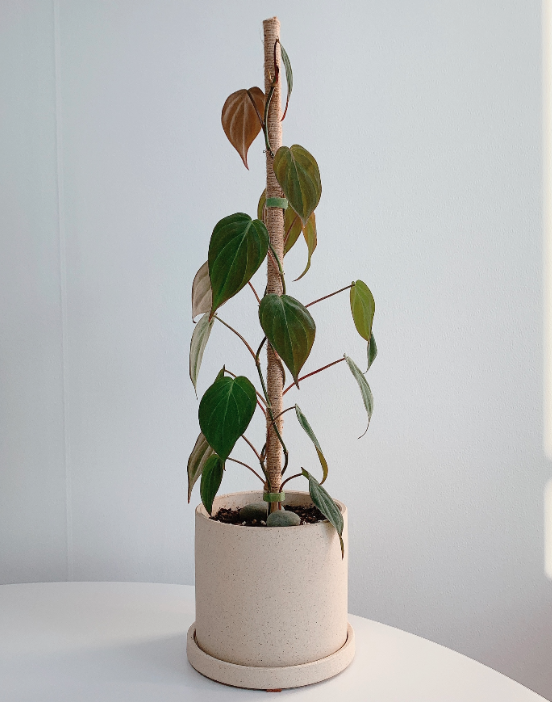
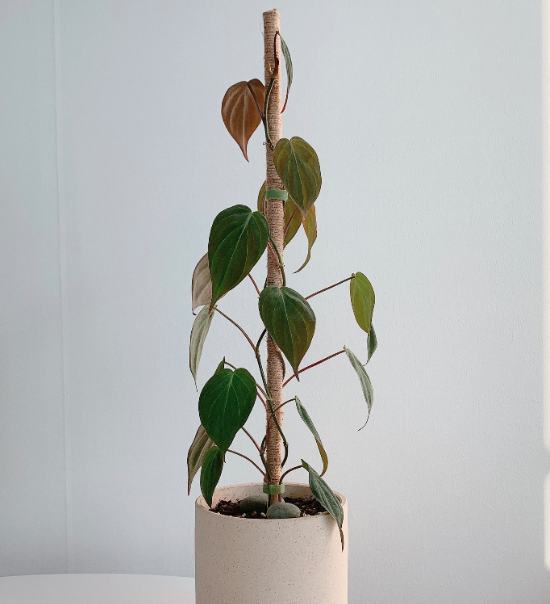
fix: 상세 페이지 스타일 수정
- 이미지 교체
- 데이터 수정
- 상세 페이지 이미지 크기 수정 및 라벨 스타일 수정

diff --git a/src/styles/DetailPageStyle.ts b/src/styles/DetailPageStyle.ts
@@ -6,7 +6,7 @@ export const DetailContainer = styled.main`
   width: 100vw;
   height: 82vh;
   margin: 0 auto;
-  padding: 20px;
+  padding: 10px 20px 20px 20px;
   display: flex;
   flex-direction: row;
   font-family: "Pretendard";
@@ -23,11 +23,11 @@ export const DetailMainDiv = styled.div`
     display: flex;
     flex-direction: column;
     gap: 5px;
-    margin-bottom: 20px;
+    margin-bottom: 13px;
 
     #plantNumber {
       font-family: "Pretendard";
-      font-size: ${({ theme }) => theme.font.lg};
+      font-size: ${({ theme }) => theme.font.md};
     }
 
     h1,
@@ -46,16 +46,18 @@ export const DetailMainDiv = styled.div`
 `;
 
 export const InfoSection = styled.div`
+  box-sizing: border-box;
   width: 100%;
   height: 100%;
-  display: grid;
-  grid-template-columns: 4fr 6fr;
+  display: flex;
+  flex-direction: row;
   gap: 30px;
 
   #photoDiv {
+    box-sizing: border-box;
     position: relative;
     display: block;
-    width: 100%;
+    width: fit-content;
     height: 100%;
 
     img {
@@ -66,20 +68,20 @@ export const InfoSection = styled.div`
   }
 
   #plantTextInfoDiv {
+    box-sizing: border-box;
     width: 50%;
     height: 100%;
     display: flex;
     flex-direction: column;
     gap: 20px;
-    padding: 20px 0;
+    padding: 10px 0 0 0;
 
     #textDiv {
+      box-sizing: border-box;
       width: 100%;
-
       display: flex;
       flex-direction: column;
-      gap: 10px;
-      width: 100%;
+      gap: 7px;
 
       p {
         margin: 0;

diff --git a/src/styles/LabelStyle.ts b/src/styles/LabelStyle.ts
@@ -2,7 +2,7 @@ import styled from "@emotion/styled";
 
 export const LabelContainer = styled.div`
   font-family: "Pretendard";
-  margin-top: 10px;
+  margin-top: 7px;
   font-size: ${({ theme }) => theme.font.sm};
   display: flex;
   flex-direction: row;
